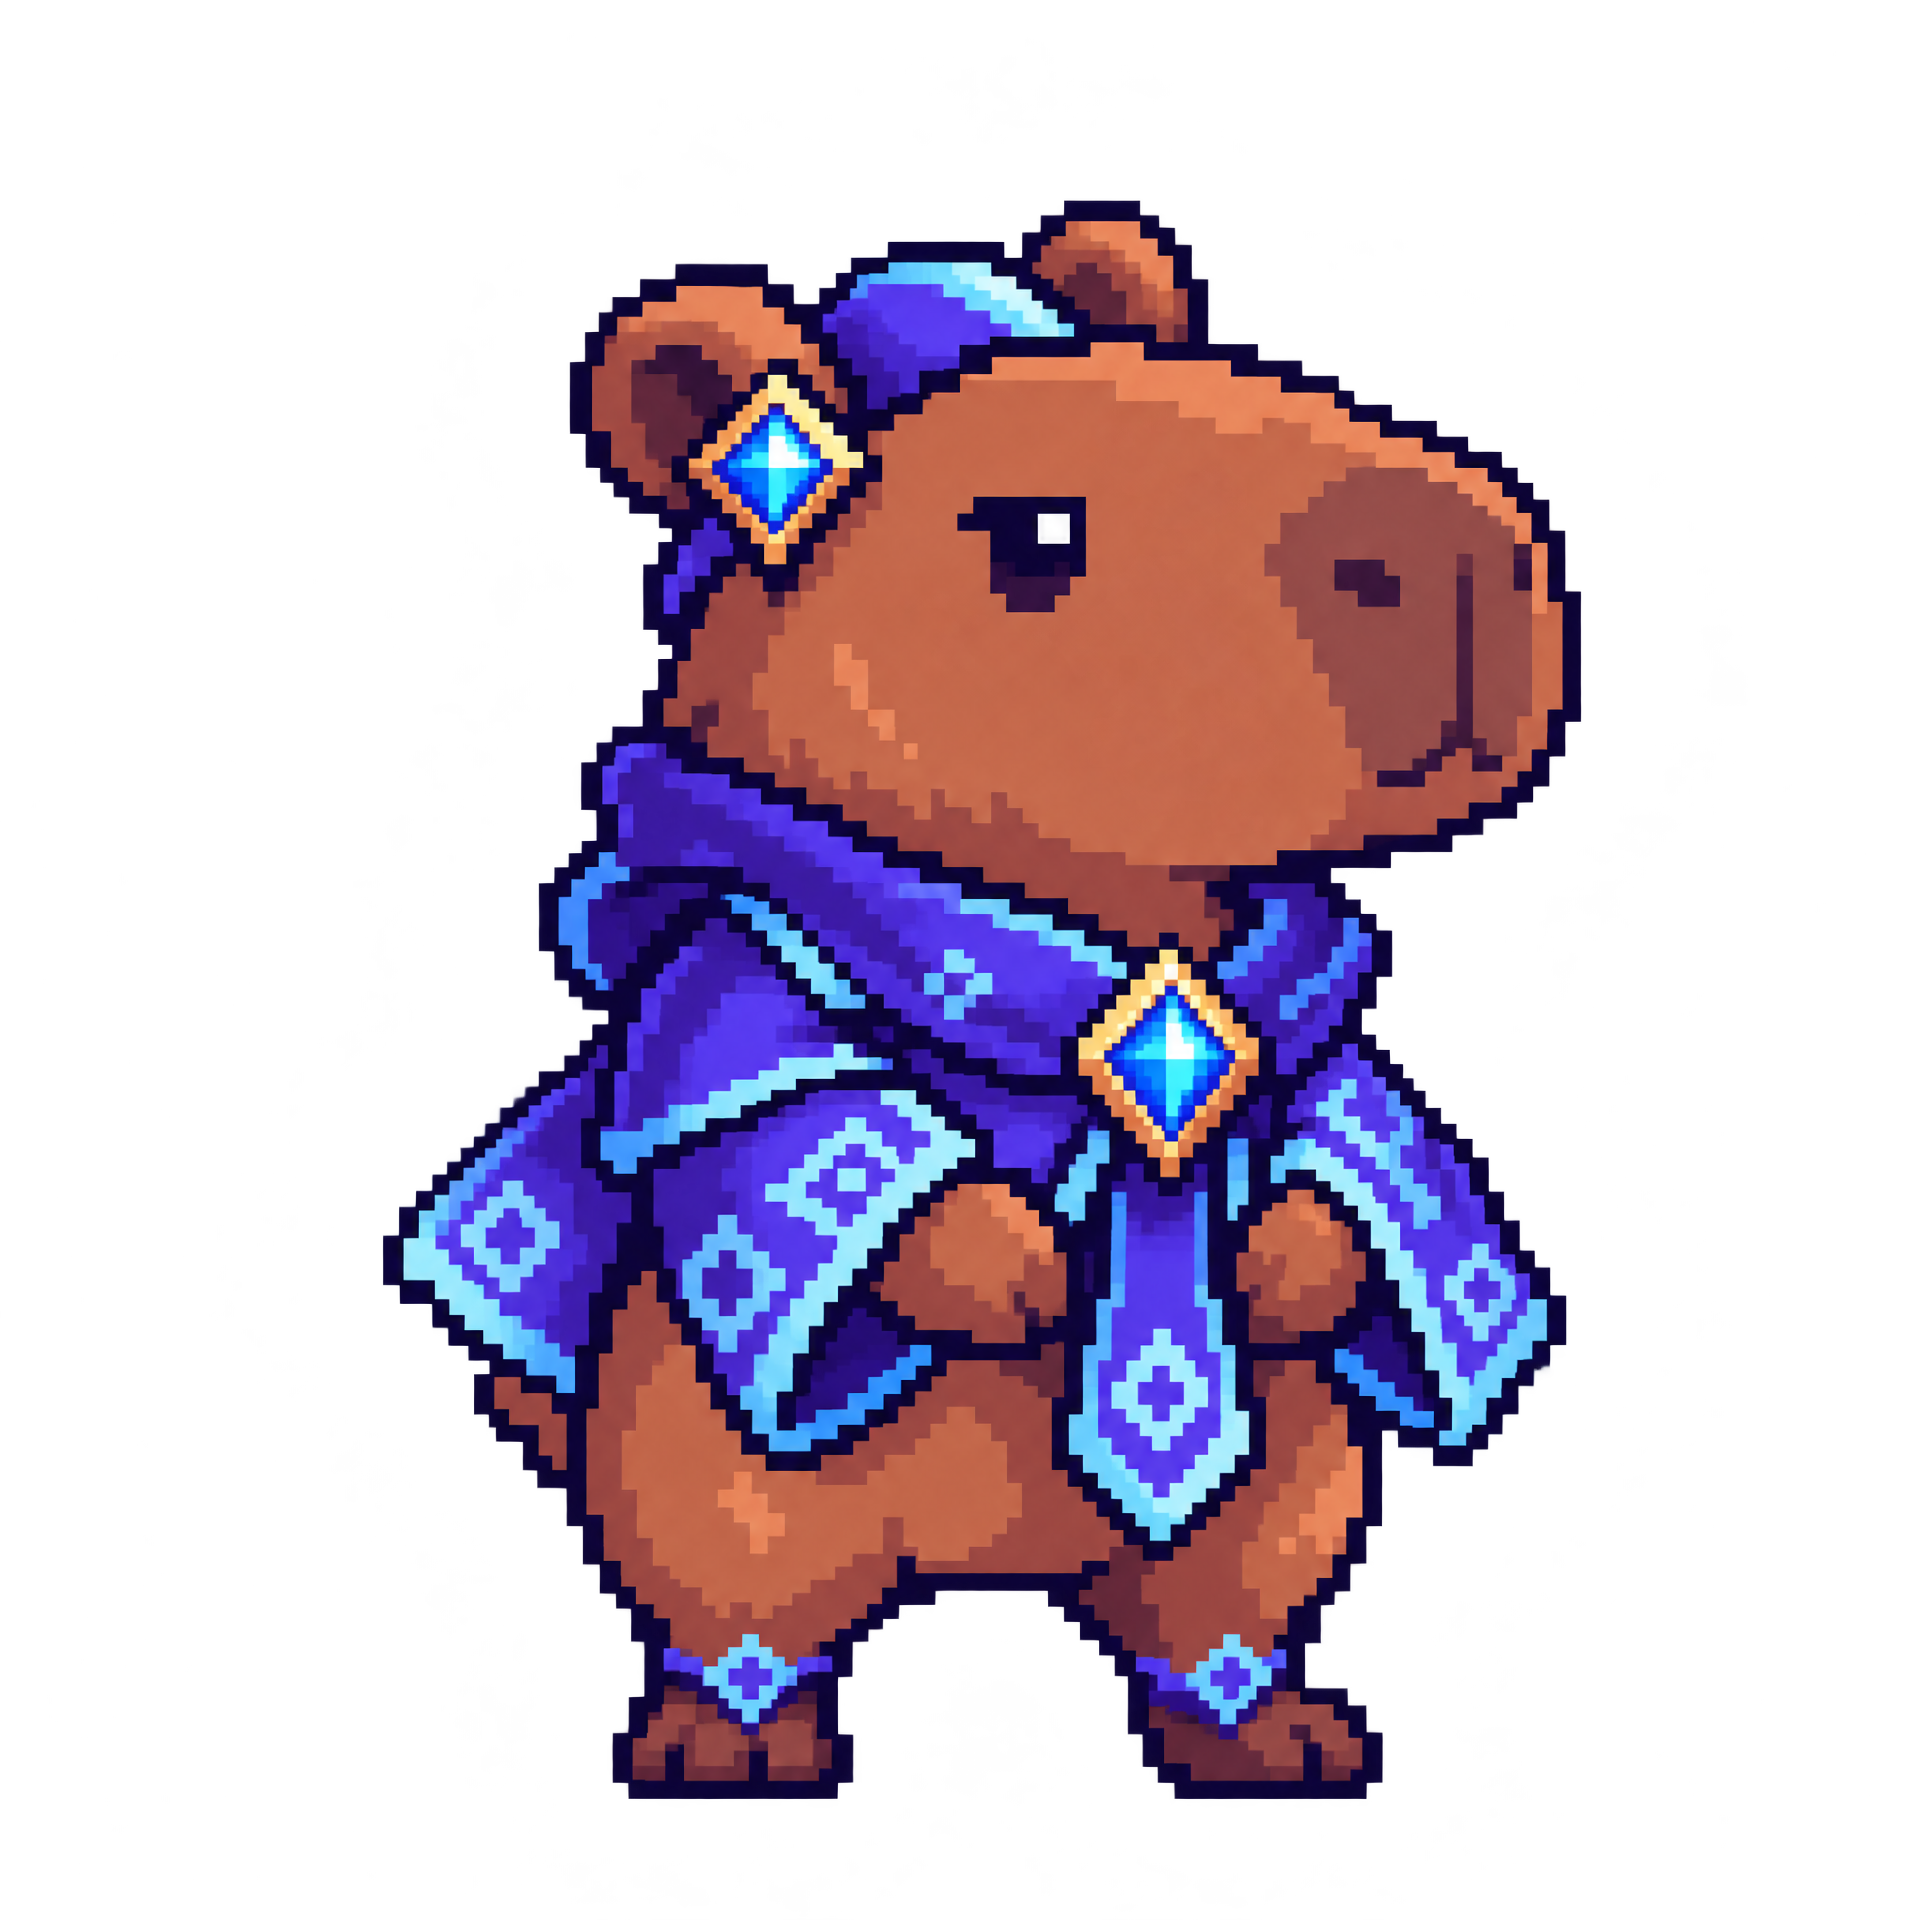
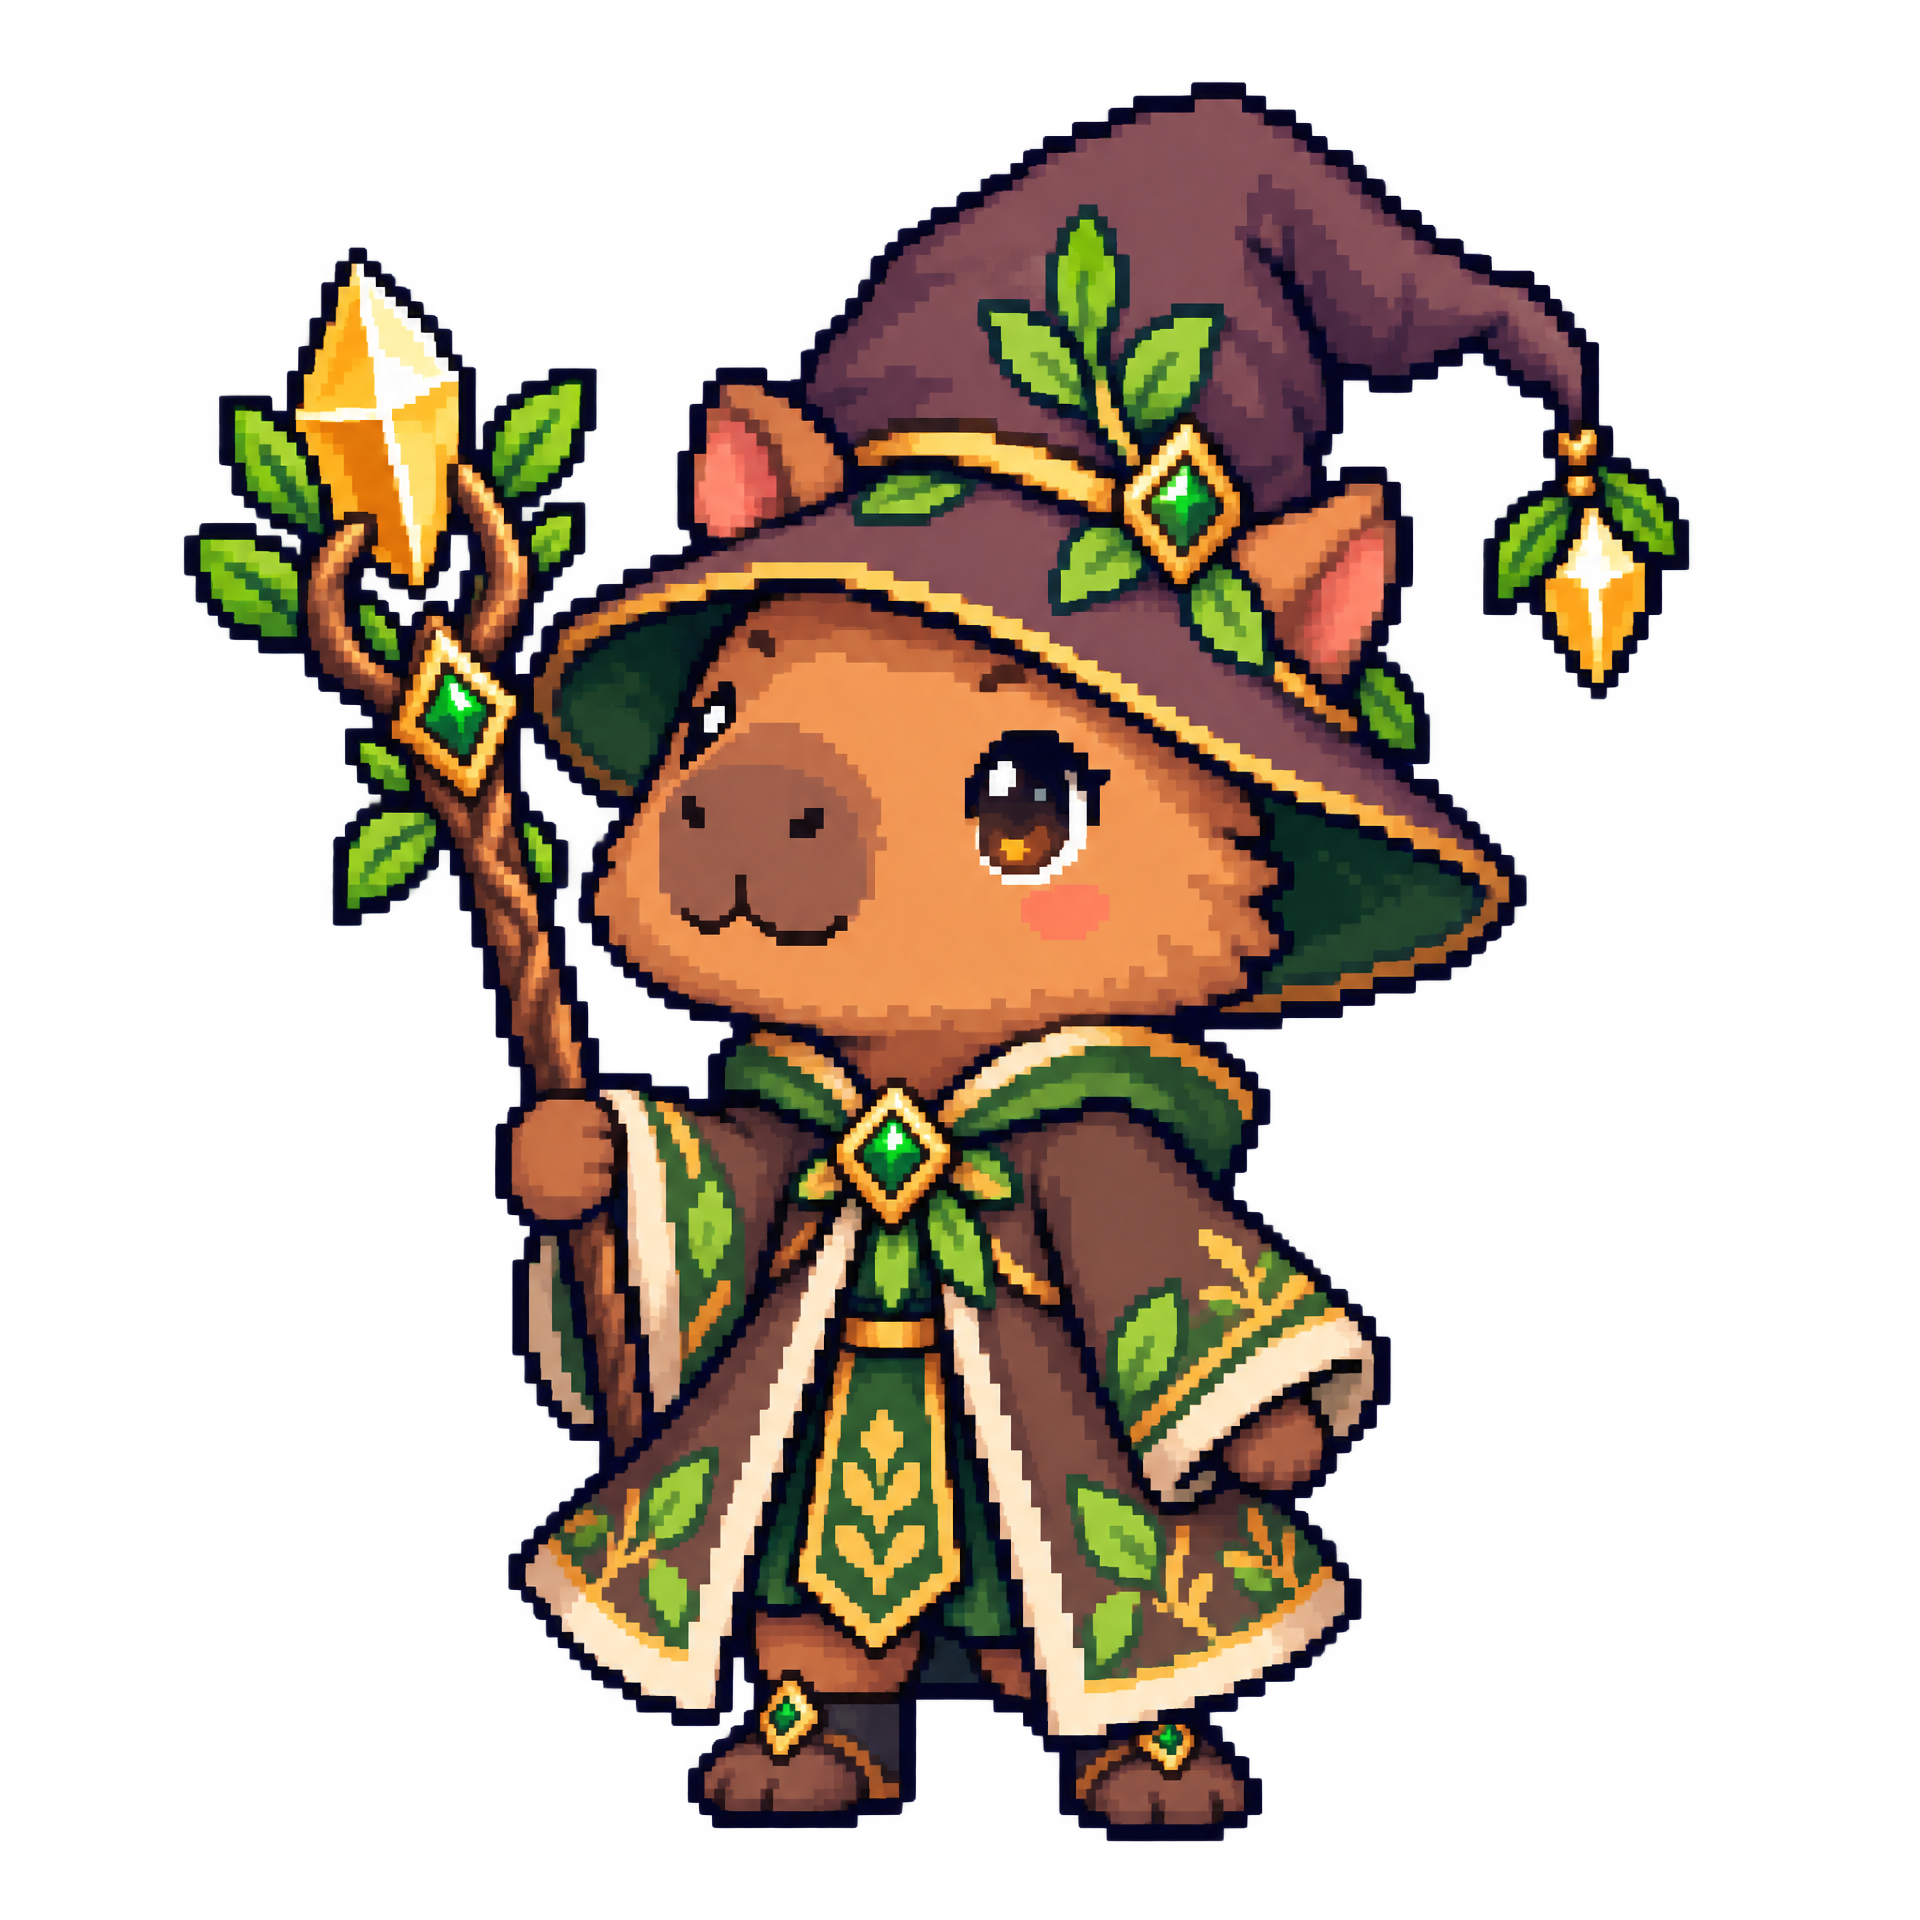
Update capybara and axolotl mage sprites

diff --git a/src/features/spellbound/gameplay/sprites/characterSprites.ts b/src/features/spellbound/gameplay/sprites/characterSprites.ts
@@ -174,12 +174,74 @@ const owl: GameplaySpriteDefinition = {
   ],
 };
 
+const capybara: GameplaySpriteDefinition = {
+  characterId: "calm-capybara-mage",
+  legColumns: [5, 9],
+  palette: {
+    o: "#3b241d",
+    b: "#a96848",
+    l: "#d99a63",
+    a: "#477143",
+    c: "#9bcf55",
+    e: "#2a1730",
+    m: "#f6d36b",
+    n: "#5b3025",
+  },
+  grid: [
+    "..oo......oo....",
+    ".obbo....obbo...",
+    ".obbbbbbbbbbo...",
+    ".obbbbbbbbbbo...",
+    "oobebbbbbbbebo..",
+    ".obbbbbbbbbbo...",
+    ".obbllnllllbo...",
+    "..obllllllbo....",
+    "...oaaaaaaaao...",
+    "..oaacaaaacaa...",
+    ".oaaalllllaaao..",
+    "..oaaaaaaaaao...",
+    "...ooooooooo....",
+  ],
+};
+
+const axolotl: GameplaySpriteDefinition = {
+  characterId: "axolotl-mage",
+  legColumns: [5, 9],
+  palette: {
+    o: "#3b1d4f",
+    b: "#f18bb8",
+    l: "#ffd2e8",
+    a: "#7a6bd1",
+    c: "#9eeaff",
+    e: "#25163d",
+    m: "#b8f5ff",
+    n: "#c95b8d",
+  },
+  grid: [
+    "..oc....co.....",
+    ".ocb....bco....",
+    "..obooooob.....",
+    ".obbbbbbbbbbo...",
+    ".obebbbbbbbebo..",
+    "obbbbbblbbbbbo..",
+    ".obbllnllllbo...",
+    "..obllllllbo....",
+    "...oaaaaaaaao...",
+    "..oaacaaaacaa...",
+    ".oaaalllllaaao..",
+    "..oaaaaaaaaao...",
+    "...ooooooooo....",
+  ],
+};
+
 export const gameplaySprites: Partial<Record<PlayableCharacterId, GameplaySpriteDefinition>> = {
   "white-fox-ice-mage": fox,
   "purple-rabbit-ninja": rabbit,
   "swamp-frog-mage": frog,
   "forge-raccoon-mage": raccoon,
   "time-owl-mage": owl,
+  "calm-capybara-mage": capybara,
+  "axolotl-mage": axolotl,
 };
 
 export function getGameplaySprite(id: PlayableCharacterId) {
